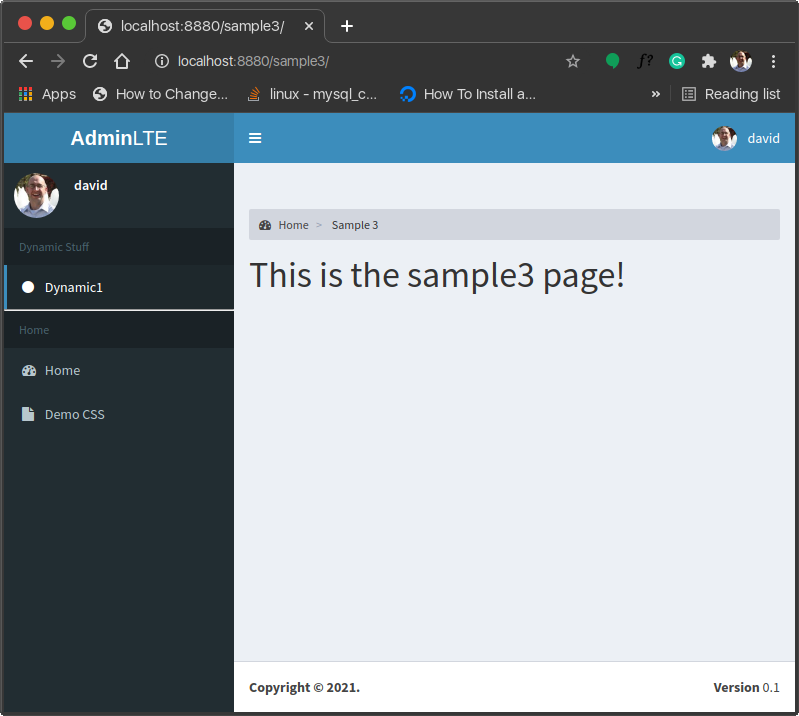
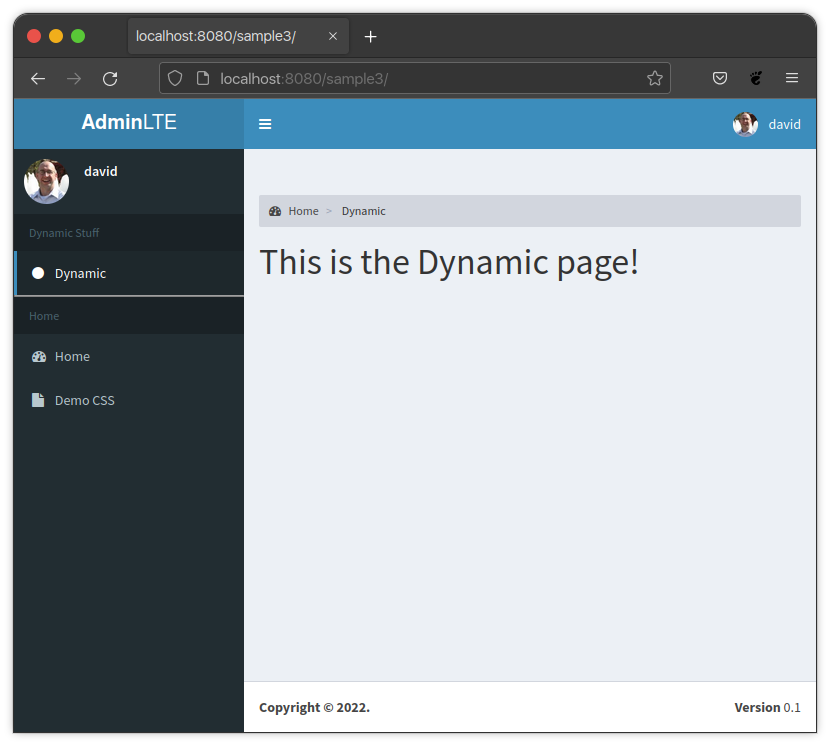
Update documentation. Remove some unneeded comments.

Changed region(s): [[0.0, 0.0, 1.0, 1.0], [0.6909, 0.0615, 0.7209, 0.0922], [0.2703, 0.4302, 0.3004, 0.4609]]

diff --git a/django_adminlte_2/urls.py b/django_adminlte_2/urls.py
@@ -1,17 +1,5 @@
-"""Django AdminLTE2 Default URL Configuration
-
-The `urlpatterns` list routes URLs to views. For more information please see:
-    https://docs.djangoproject.com/en/2.0/topics/http/urls/
-Examples:
-Function views
-    1. Add an import:  from my_app import views
-    2. Add a URL to urlpatterns:  path('', views.home, name='home')
-Class-based views
-    1. Add an import:  from other_app.views import Home
-    2. Add a URL to urlpatterns:  path('', Home.as_view(), name='home')
-Including another URLconf
-    1. Import the include() function: from django.urls import include, path
-    2. Add a URL to urlpatterns:  path('blog/', include('blog.urls'))
+"""
+Django AdminLTE2 Default URL Configuration
 """
 from . import views
 from django.conf import settings

diff --git a/django_adminlte_2/templatetags/adminlte_filters.py b/django_adminlte_2/templatetags/adminlte_filters.py
@@ -39,7 +39,7 @@ def with_attrs(field, attrs_as_json=None):
     attrs = field.field.widget.attrs
     data_attrs = json.loads(attrs_as_json)
     for key, value in data_attrs.items():
-        attrs['{0}'.format(key)] = value
+        attrs[f'{key}'] = value
     field.field.widget.attrs = {**field.field.widget.attrs, **attrs}
     return field
 
@@ -98,7 +98,7 @@ def with_data(field, data_attrs_json=None):
     attrs = field.field.widget.attrs
     data_attrs = json.loads(data_attrs_json)
     for key, value in data_attrs.items():
-        attrs['data-{0}'.format(key)] = value
+        attrs[f'data-{key}'] = value
     field.field.widget.attrs = {**field.field.widget.attrs, **attrs}
     return field
 

diff --git a/docs/source/menu.rst b/docs/source/menu.rst
@@ -296,7 +296,7 @@ Advanced Settings and Context Example
 
     urlpatterns = [
         ...
-        path('sample3/', views.sample3, name="sample3"),
+        path('dynamic/', views.dynamic, name="dynamic"),
         ...
     ]
 
@@ -305,16 +305,16 @@ Advanced Settings and Context Example
 .. code:: python
     :name: views.py
 
-    def sample3(request):
-        """Show default sample3 page"""
+    def dynamic(request):
+        """Show default dynamic page"""
 
         dynamic_content = [
             {
                 'text': 'Dynamic Stuff',
                 'nodes': [
                     {
-                        'route': '#',
-                        'text': 'Dynamic1',
+                        'route': 'dynamic',
+                        'text': 'Dynamic',
                         'icon': 'fa fa-circle',
                     },
                 ]
@@ -323,11 +323,30 @@ Advanced Settings and Context Example
 
         return render(
             request,
-            'adminlte2/sample3.html',
+            'dynamic.html',
             {
                 'ADMINLTE2_MENU_FIRST': dynamic_content
             }
         )
+
+**dynamic.html**
+
+.. code:: HTML+Django
+    :name: dynamic.html
+
+    {% extends "adminlte2/base.html" %}
+    {% load i18n %}
+    {% block breadcrumbs %}
+    <ol class="breadcrumb">
+        {% include "admin/partials/_breadcrumb_home.html" %}
+        <li>
+        {% trans 'Dynamic' %}
+        </li>
+    </ol>
+    {% endblock breadcrumbs %}
+    {% block content %}
+    <h1>This is the Dynamic page!</h1>
+    {% endblock content %}
 
 .. image:: ../img/django-adminlte-2-dynamic-menu.png
     :alt: Site with static and dynamic menu using settings and context

diff --git a/README.md b/README.md
@@ -33,10 +33,18 @@ Additionally there are tools, utilities and additional CSS options to aid in the
     ]
     ```
 
-4. Django-AdminLTE-2 does not include a route or templates for /accounts/profile which is the default Login redirect. Add the following to settings to have successful logins redirect to the sample home page included in Django-AdminLTE-2
+4. Ensure that the login redirect will work.
     ```python
     LOGIN_REDIRECT_URL = 'django_adminlte_2:home'
     ```
+    ---
+
+    **NOTE:**
+    Django-AdminLTE-2 does not include a route or templates for /accounts/profile which is the default Login redirect.
+    Adding the above entry to your settings file will allow successful logins to redirect to the sample home page
+    included in Django-AdminLTE-2 until a proper profile is set up.
+
+    ---
 
 5. Update settings.py to customize the look and feel of Django-AdminLTE-2
 

diff --git a/docs/source/quickstart.rst b/docs/source/quickstart.rst
@@ -31,11 +31,16 @@ Quickstart
             path('admin/', admin.site.urls),
         ]
 
-4. Django-AdminLTE-2 does not include a route or templates for /accounts/profile which is the default Login redirect. Add the following to settings to have successful logins redirect to the sample home page included in Django-AdminLTE-2
+4. Ensure that the login redirect will work.
+
     .. code-block:: python
 
         LOGIN_REDIRECT_URL = 'django_adminlte_2:home'
 
+    .. note::
+        Django-AdminLTE-2 does not include a route or templates for /accounts/profile which is the default Login redirect.
+        Adding the above entry to your settings file will allow successful logins to redirect to the sample home page
+        included in Django-AdminLTE-2 until a proper profile is set up.
 
 5. Update settings.py to customize the look and feel of Django-AdminLTE-2
 
